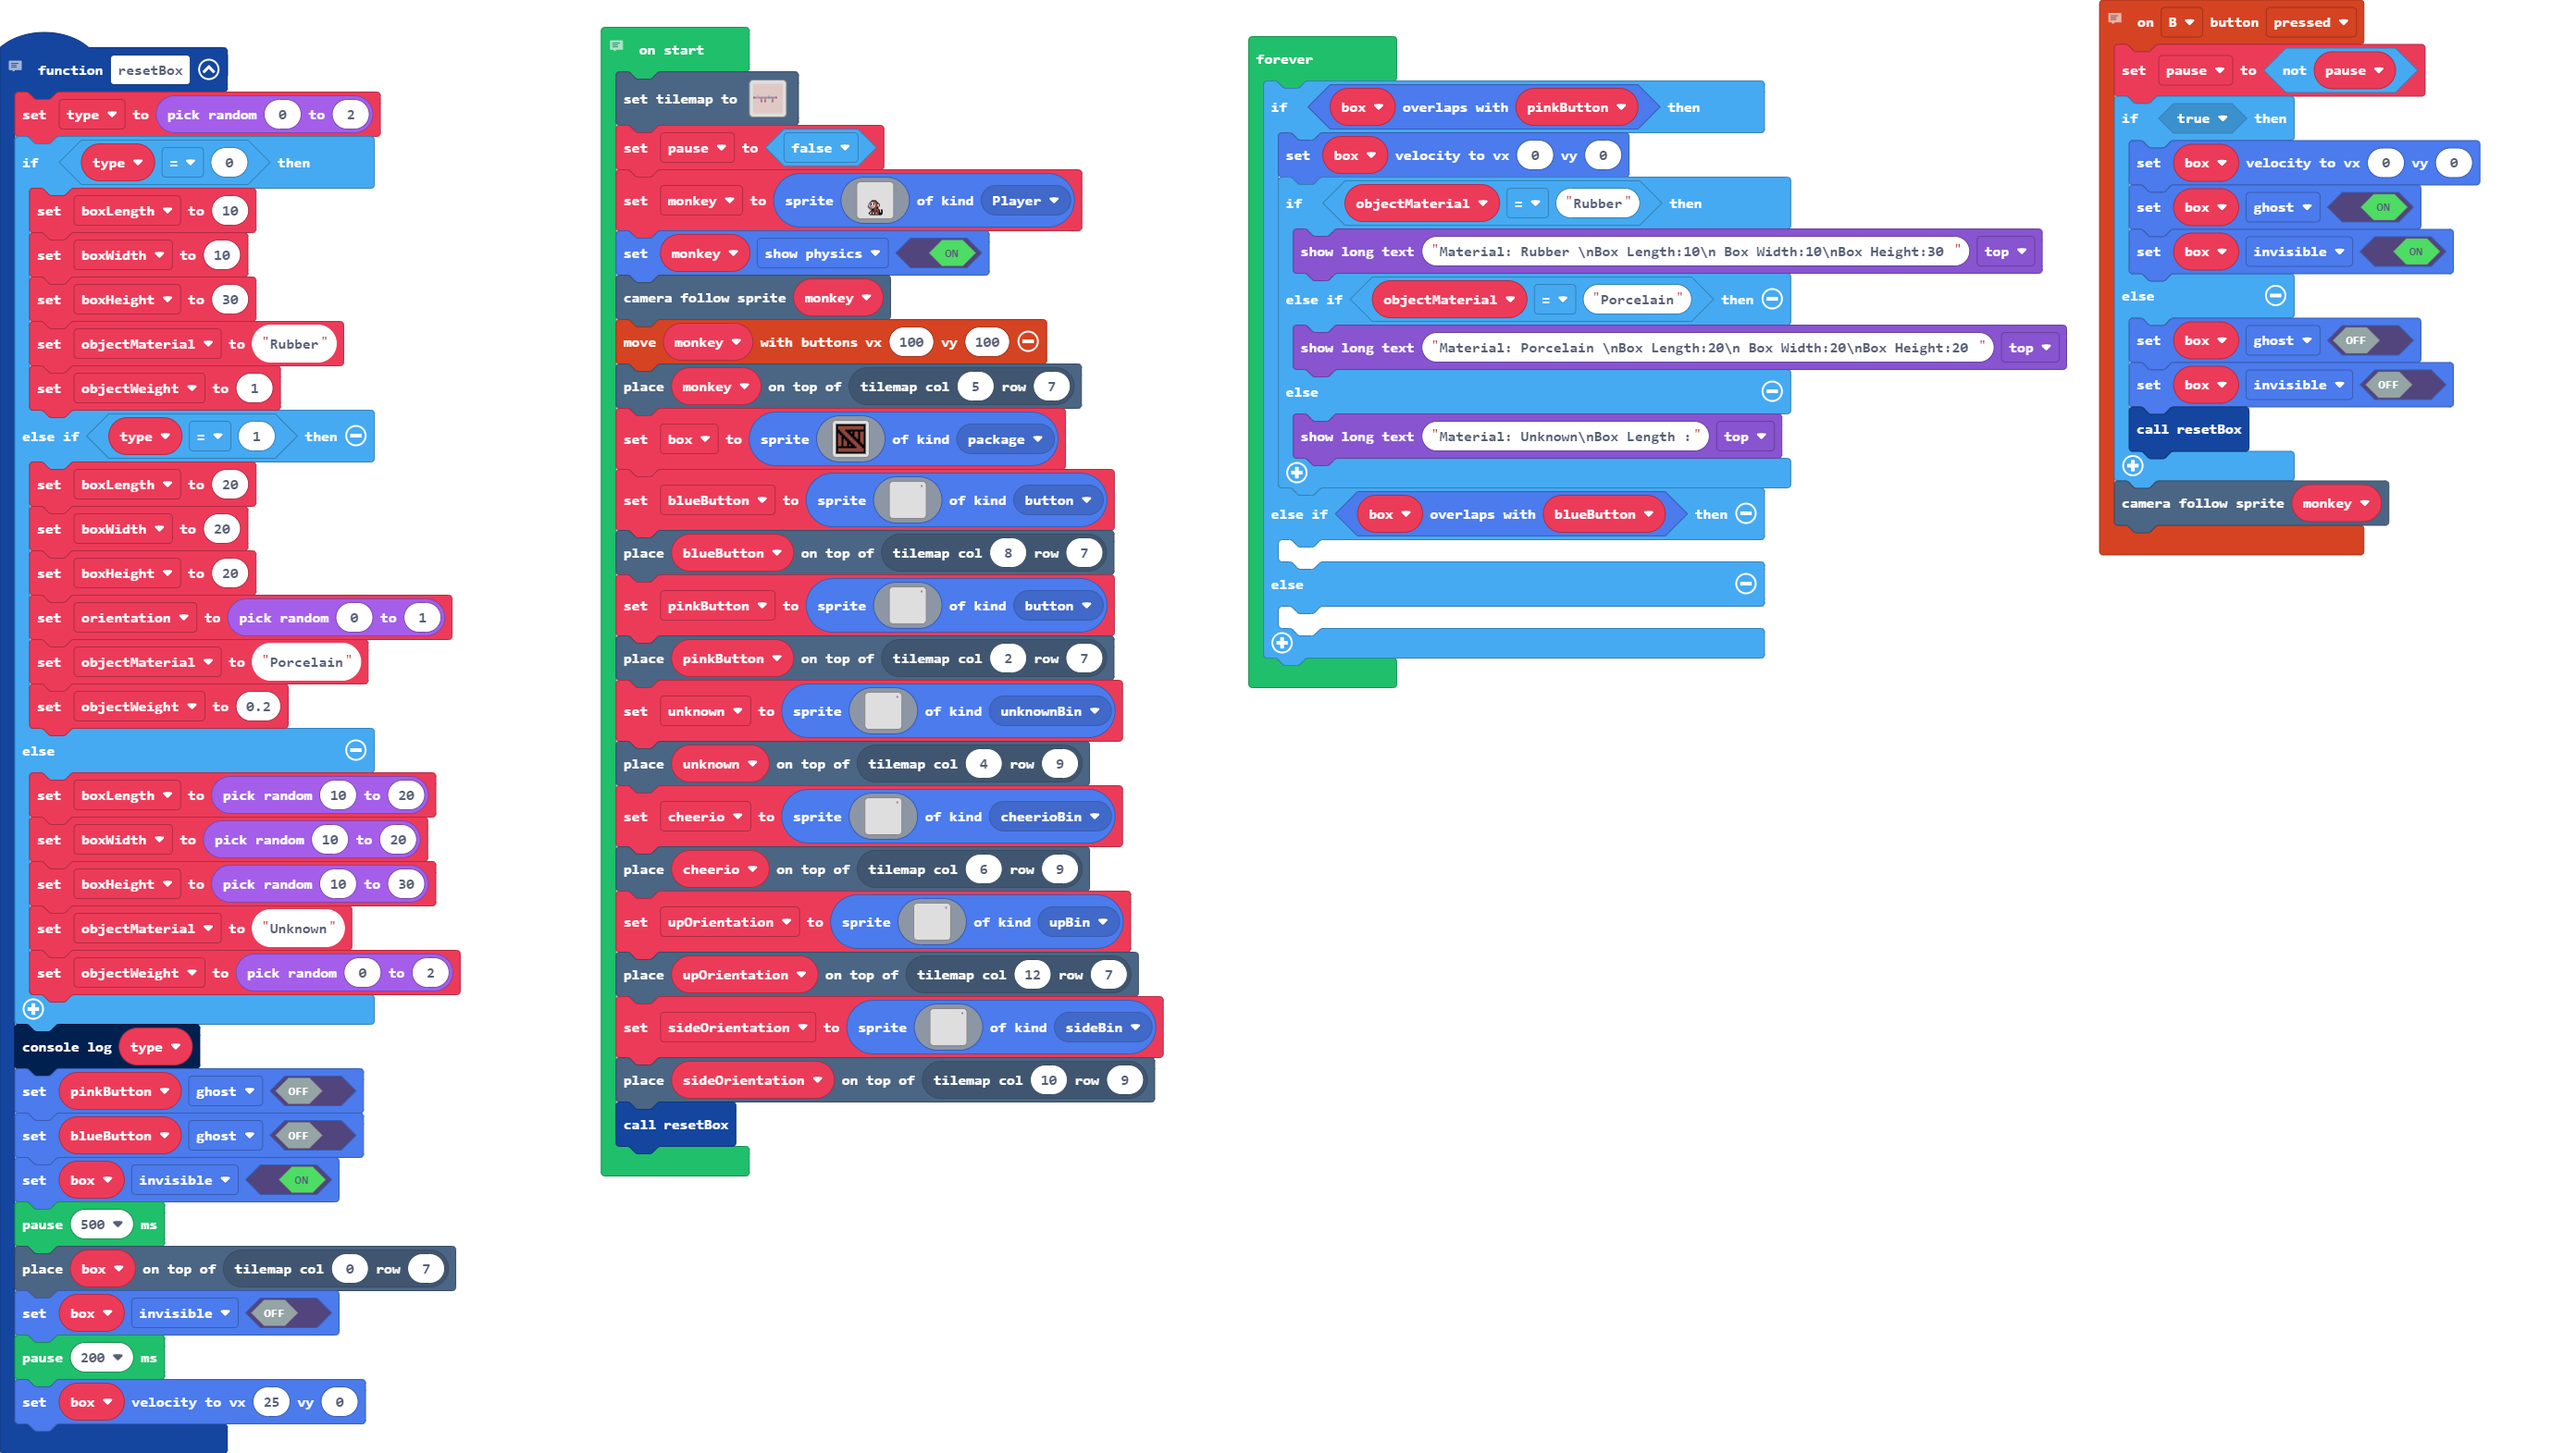
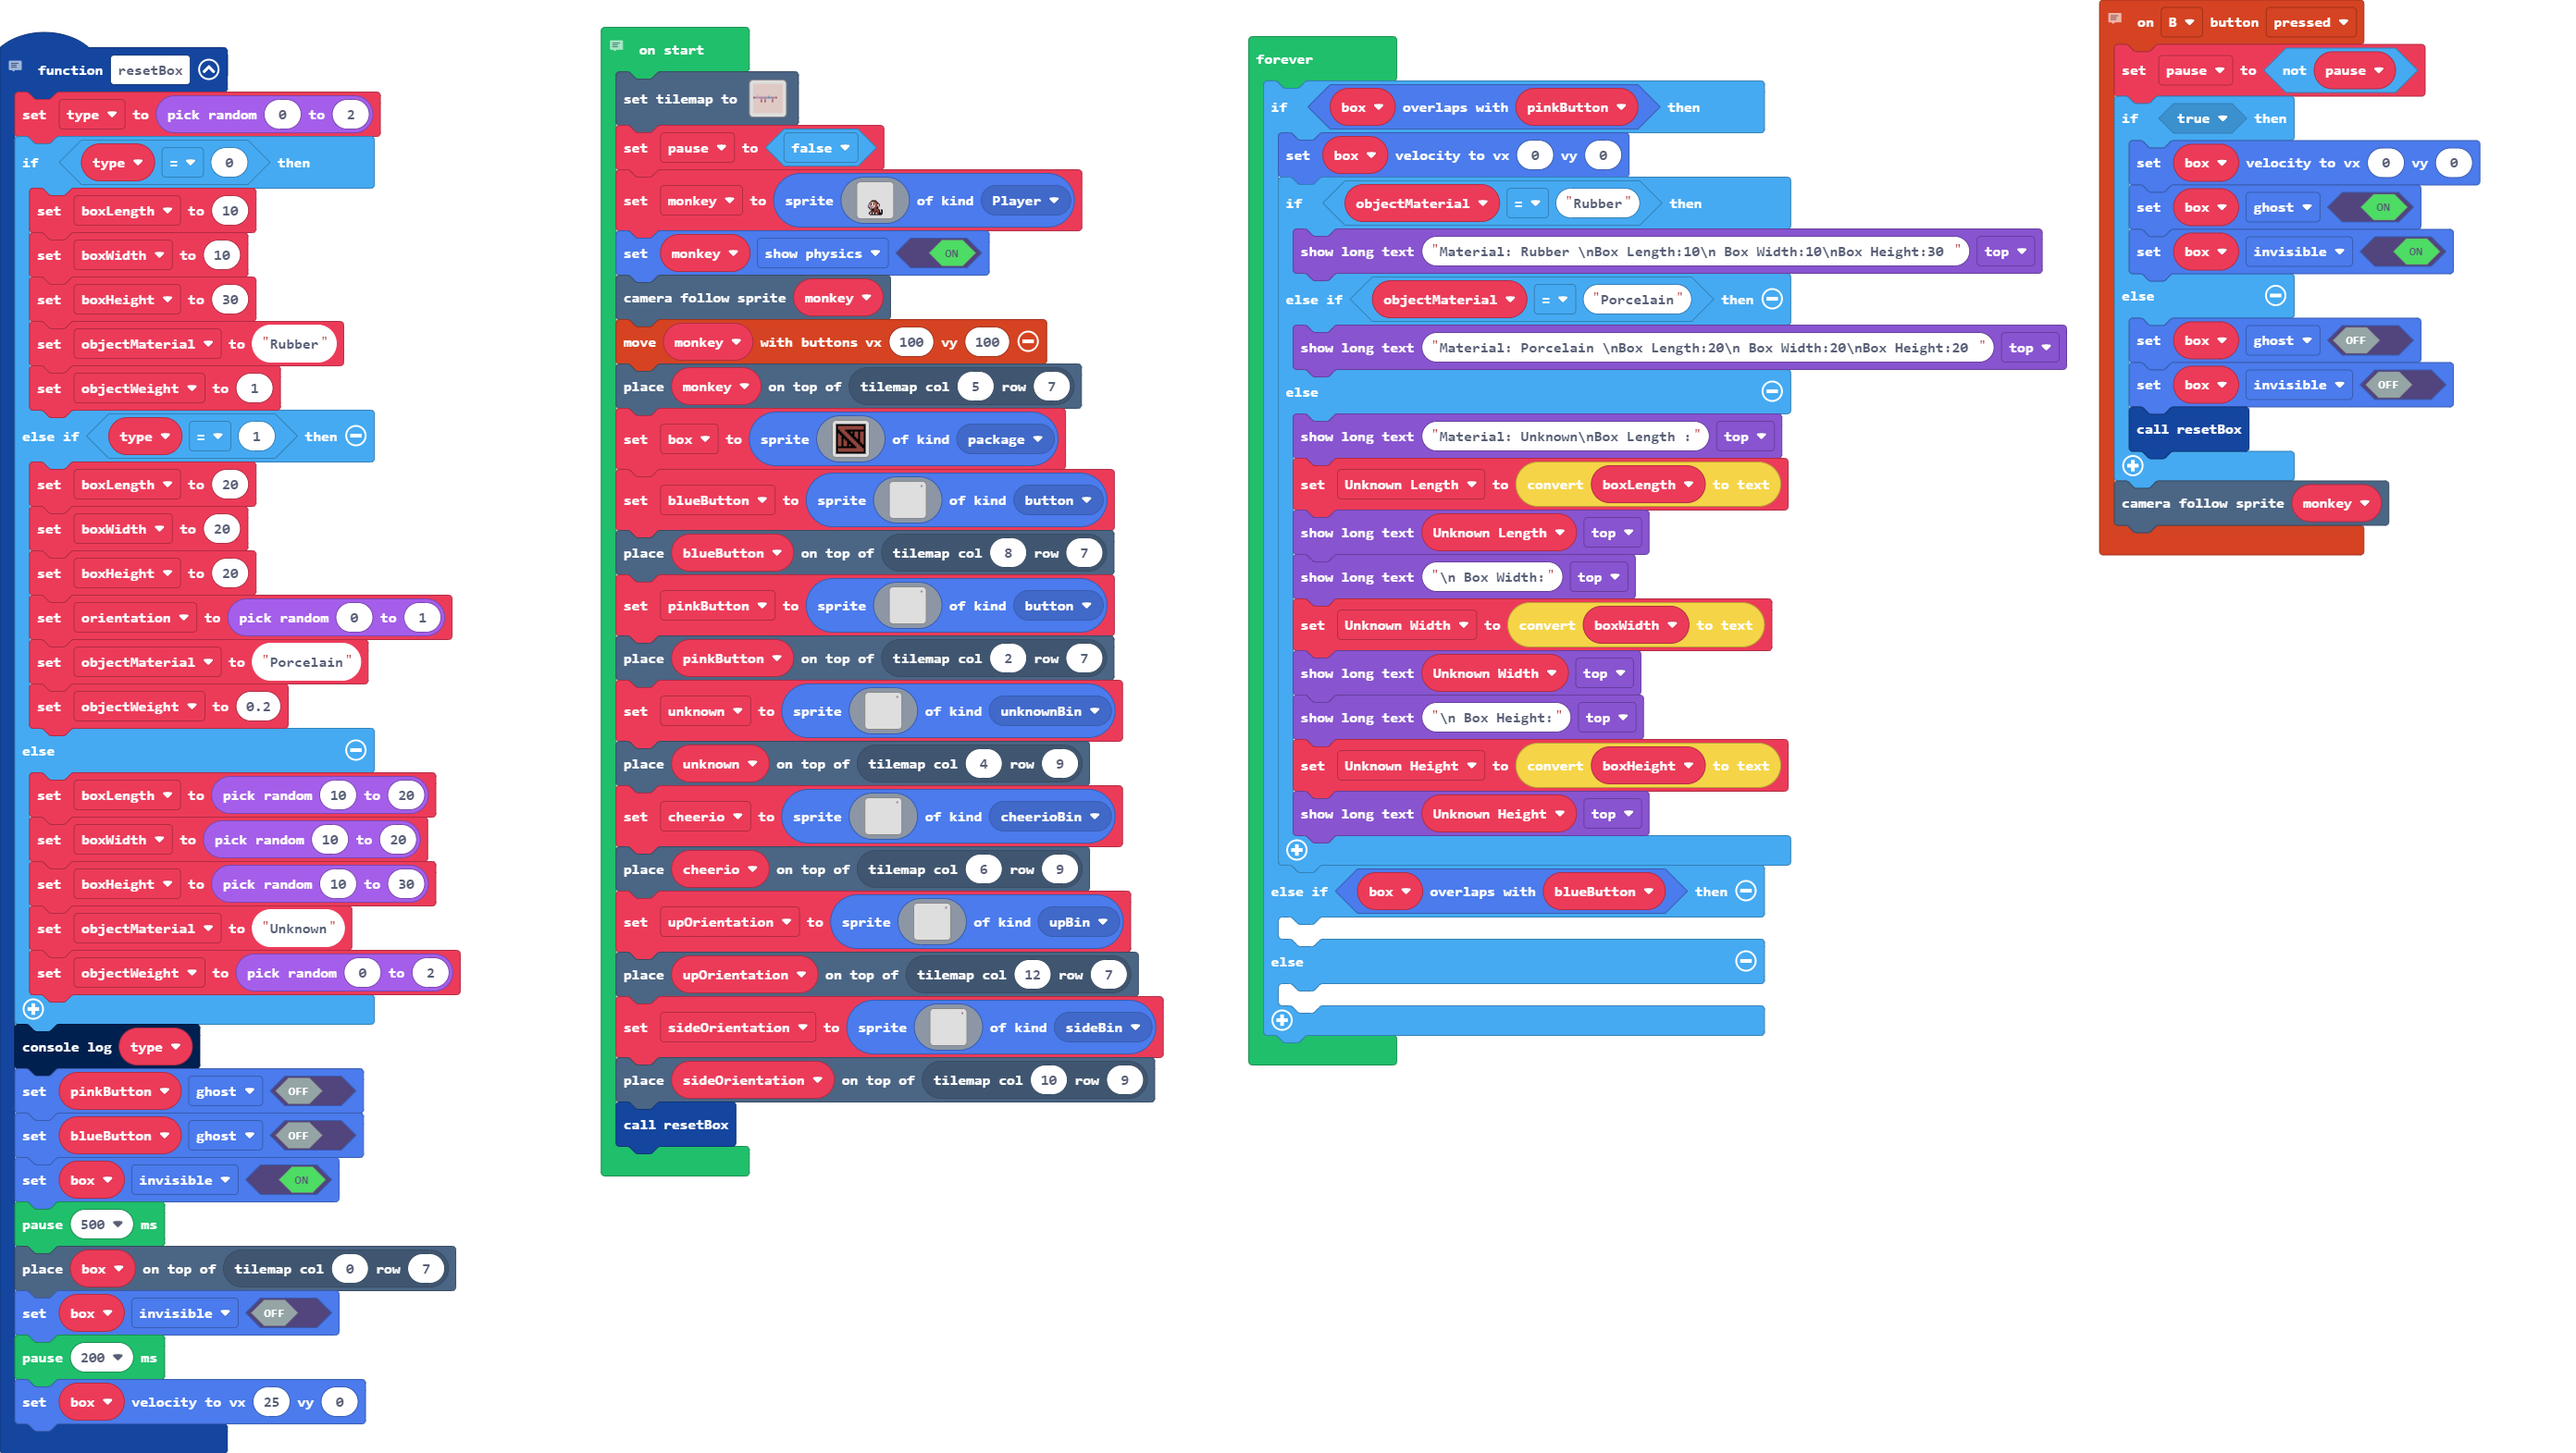
Update main.blocks, main.ts

Changed region(s): [[0.4688, 0.3119, 0.7188, 0.7486]]

diff --git a/main.ts b/main.ts
@@ -56,6 +56,9 @@ function resetBox () {
     box.setVelocity(25, 0)
 }
 // Create and place game map and objects
+let Unknown_Height = ""
+let Unknown_Width = ""
+let Unknown_Length = ""
 let orientation = 0
 let objectWeight = 0
 let objectMaterial = ""
@@ -267,6 +270,14 @@ forever(function () {
             game.showLongText("Material: Porcelain \\nBox Length:20\\n Box Width:20\\nBox Height:20 ", DialogLayout.Top)
         } else {
             game.showLongText("Material: Unknown\\nBox Length :", DialogLayout.Top)
+            Unknown_Length = convertToText(boxLength)
+            game.showLongText(Unknown_Length, DialogLayout.Top)
+            game.showLongText("\\n Box Width:", DialogLayout.Top)
+            Unknown_Width = convertToText(boxWidth)
+            game.showLongText(Unknown_Width, DialogLayout.Top)
+            game.showLongText("\\n Box Height:", DialogLayout.Top)
+            Unknown_Height = convertToText(boxHeight)
+            game.showLongText(Unknown_Height, DialogLayout.Top)
         }
     } else if (box.overlapsWith(blueButton)) {
     	
